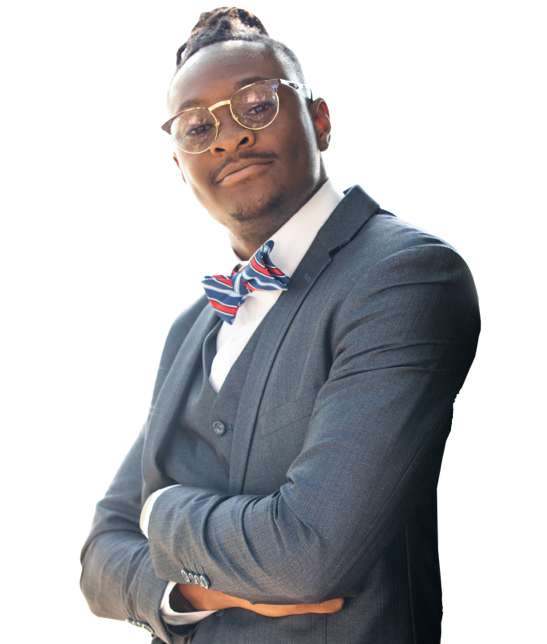
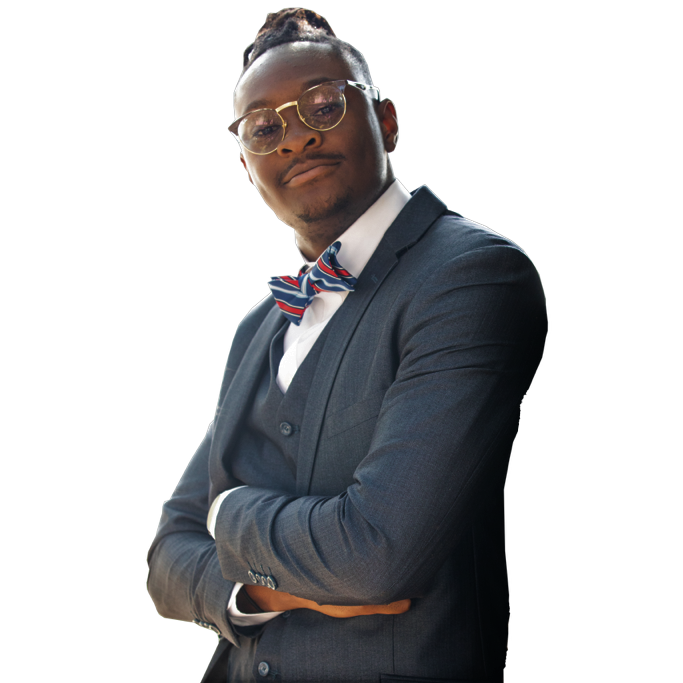
styled skills page and made border raduises more constistent

diff --git a/src/App.vue b/src/App.vue
@@ -97,10 +97,16 @@ import Footer from "./components/footer.vue";
 import gears from "@/assets/clip-art-images/single-gear.png";
 import mattFar from "@/assets/clip-art-images/Mattfarley-background.svg";
 import phone from "@/assets/clip-art-images/phone.svg";
-import mediumIcon from "@/assets/link-images/medium.png";
-import githubIcon from "@/assets/link-images/github.svg";
-import linkedinIcon from "@/assets/link-images/linkedinpng.svg";
+// import mediumIcon from "@/assets/link-images/medium.png";
+// import githubIcon from "@/assets/link-images/github.svg";
+// import linkedinIcon from "@/assets/link-images/linkedinpng.svg";
 import sectionTitle from "@/components/section-title.vue";
+
+import {
+  faLinkedin,
+  faMedium,
+  faGithub
+} from "@fortawesome/free-brands-svg-icons";
 
 export default {
   name: "homepage",
@@ -138,11 +144,20 @@ export default {
       },
       footerIcons: [
         {
-          icon: linkedinIcon,
-          link: "https://www.linkedin.com/in/ijeri-omitogun/"
+          icon: faLinkedin,
+          link: "https://www.linkedin.com/in/ijeri-omitogun/",
+          iconName: ["fa-brands", "fa-linkedin"]
         },
-        { icon: githubIcon, link: "https://github.com/ijeriomit" },
-        { icon: mediumIcon, link: "https://jeri-omit.medium.com/" }
+        {
+          icon: faGithub,
+          link: "https://github.com/ijeriomit",
+          iconName: ["fa-brands", "fa-github"]
+        },
+        {
+          icon: faMedium,
+          link: "https://jeri-omit.medium.com/",
+          iconName: ["fa-brands", "fa-medium"]
+        }
       ]
     };
   }
@@ -180,7 +195,7 @@ $page-height: $header-height + $small-section-height + $section-height +
   height: 100%;
   width: 100%;
   display: grid;
-  grid-template-columns: 10% 80% 10%;
+  grid-template-columns: 5% 90% 5%;
   grid-template-rows:
     ($small-section-height + $header-height) $section-height $section-height
     $large-section-height

diff --git a/src/sections/about-me.vue b/src/sections/about-me.vue
@@ -17,14 +17,19 @@
         </text-box>
         <text-box class="skills-content">
           <template class="text" v-slot:text-slot>
-            Recent Technologies: Javascript Python Java C# Vue ROS
+            <span>Recent Technologies:</span>
+            <ul class="technologies">
+              <li v-for="(item, index) in technologies" :key="index">
+                {{ item }}
+              </li>
+            </ul>
           </template>
         </text-box>
       </div>
       <floating-frame
         :borderColor="'#4F3E3E'"
         :backgroundColor="'rgb(196, 196, 153)'"
-        :horizontalOffset="2.5"
+        :horizontalOffset="3"
         :verticalOffset="3"
         :imageSrc="image"
         class="image-frame"
@@ -37,12 +42,14 @@ import FloatingFrame from "@/components/floating-frame";
 import sectionTitle from "@/components/section-title.vue";
 import textBox from "@/components/text-box.vue";
 
-import image from "@/assets/about-me-images/ij-floatin-cropped.png";
+import image from "@/assets/about-me-images/ij-floatin.png";
 export default {
   name: "About-Me",
   data: function() {
     return {
-      image: image
+      image: image,
+      aboutMeText: "",
+      technologies: ["Javascript", "Python", "Vue", "Angular", "Node.js", "ROS"]
     };
   },
   components: {
@@ -67,7 +74,17 @@ $phone-image-height: 15rem;
   margin-top: 3rem;
   font-family: $vs-code-font;
 }
-
+.technologies {
+  display: grid;
+  grid-template-columns: 50% 50%;
+  grid-template-rows: 33.33% 33.33% 33.33%;
+  width: 90%;
+  height: 90%;
+  gap: 0 10px;
+  li {
+    padding: 5px;
+  }
+}
 .content-section {
   display: flex;
   flex-flow: row wrap;
@@ -93,6 +110,8 @@ $phone-image-height: 15rem;
   height: 12.5rem;
   color: $dark-text-color;
   order: 1;
+  display: flex;
+  flex-flow: column;
 }
 .image-frame {
   order: 2;

diff --git a/src/components/footer.vue b/src/components/footer.vue
@@ -8,7 +8,8 @@
         v-for="(iconObj, index) in footerIcons"
         :key="index"
       >
-        <img :src="iconObj.icon" />
+        <font-awesome class="icon" :icon="iconObj.icon"></font-awesome>
+        <!-- <img :src="iconObj.icon" /> -->
       </a>
     </div>
     <div class="credit">
@@ -17,7 +18,18 @@
   </div>
 </template>
 <script>
+import { FontAwesomeIcon } from "@fortawesome/vue-fontawesome";
+import { library } from "@fortawesome/fontawesome-svg-core";
+
 export default {
+  components: {
+    "font-awesome": FontAwesomeIcon
+  },
+  created: function() {
+    this.footerIcons.map(iconObj => {
+      library.add(iconObj);
+    });
+  },
   props: {
     footerIcons: {
       type: Array
@@ -26,6 +38,8 @@ export default {
 };
 </script>
 <style lang="scss" scoped>
+@import "@/scss/variables.scss";
+
 .footer-wrapper {
   flex-flow: row nowrap;
   justify-content: space-between;
@@ -48,9 +62,14 @@ export default {
   position: absolute;
   width: fit-content;
 }
+.icon {
+  height: 100%;
+  width: 100%;
+  color: $tertiary-color;
+}
 a {
-  width: 2.75rem;
-  height: 2.75rem;
+  width: 3rem;
+  height: 3rem;
   // background-color: white;
   display: block;
   margin-left: 60px;

diff --git a/src/components/floating-frame.vue b/src/components/floating-frame.vue
@@ -65,11 +65,13 @@ export default {
 };
 </script>
 <style lang="scss" scoped>
+@import "@/scss/variables.scss";
+
 .layer {
   height: inherit;
   width: inherit;
   position: absolute;
-  border-radius: 10px;
+  border-radius: $box-border-radius;
 }
 .background-layer {
   @extend .layer;
@@ -80,9 +82,9 @@ export default {
 .floating-frame-layer {
   @extend .layer;
   z-index: 1;
-  border-style: solid;
-  border-width: 10px;
+  border: black solid 15px;
   box-sizing: border-box;
+  height: inherit;
 }
 .frame-wrapper {
   display: flex;
@@ -93,8 +95,8 @@ export default {
 img {
   max-width: 100%;
   max-height: 100%;
-  position: relative;
-  height: 100%;
+  position: absolute;
+  bottom: 0px;
   border-width: 0.5px;
 }
 </style>

diff --git a/src/components/floating-header.vue b/src/components/floating-header.vue
@@ -61,12 +61,12 @@ export default {
   order: 1;
   // right: 5%;
   position: relative;
-  left: 10vw;
+  left: 5vw;
 }
 .nav-section {
   order: 2;
   position: relative;
-  right: 10vw;
+  right: 5vw;
 }
 
 .logo {

diff --git a/src/components/text-box.vue b/src/components/text-box.vue
@@ -16,7 +16,7 @@ export default {
 
 .text-box {
   background-color: grey;
-  border-radius: 30px;
+  border-radius: $box-border-radius;
   width: fit-content;
   height: fit-content;
   display: flex;

diff --git a/src/scss/variables.scss b/src/scss/variables.scss
@@ -23,7 +23,7 @@ $large-text-size: 2.5rem;
 // $small-screen-title-text-size: 2.
 
 $title-top-offset: 2rem;
-
+$box-border-radius: 30px; 
 
 $header-height: 100px;
 $section-height: 900px;
